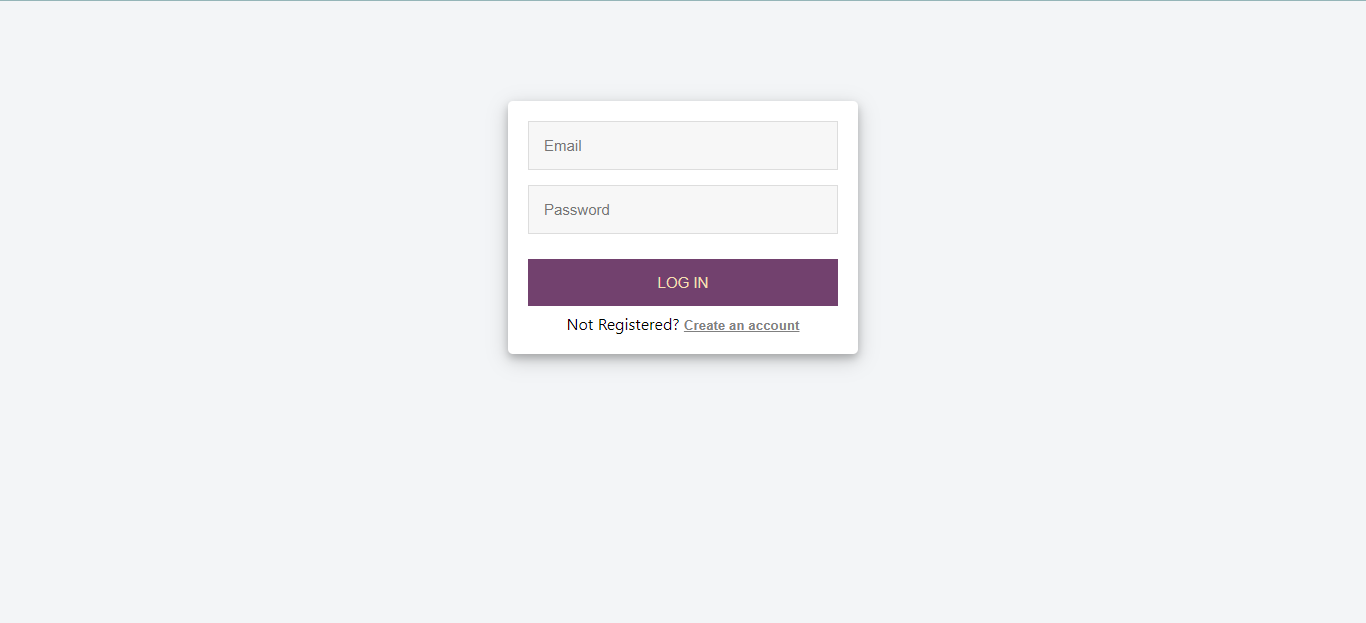
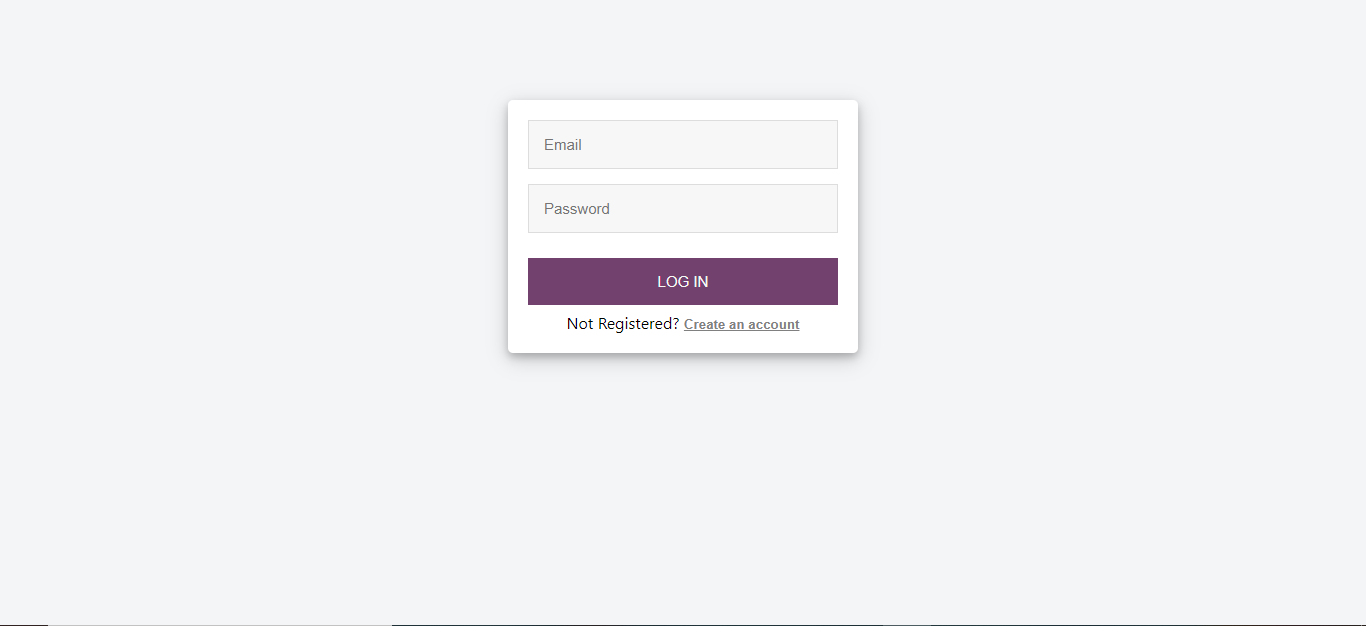
updated UI

Changed region(s): [[0.369, 0.3965, 0.6149, 0.5795], [0.3997, 0.2745, 0.6149, 0.366], [0.3997, 0.2135, 0.4305, 0.244]]

diff --git a/src/styles/_login.scss b/src/styles/_login.scss
@@ -12,7 +12,7 @@
 .submitBtn {
     width: 100%;
     background: rgba(99, 44, 94, 0.9);
-    color: wheat;
+    color: #f7f7f7;
     border: 0;
     padding: 15px;
     margin: 10px 0 0 0;
